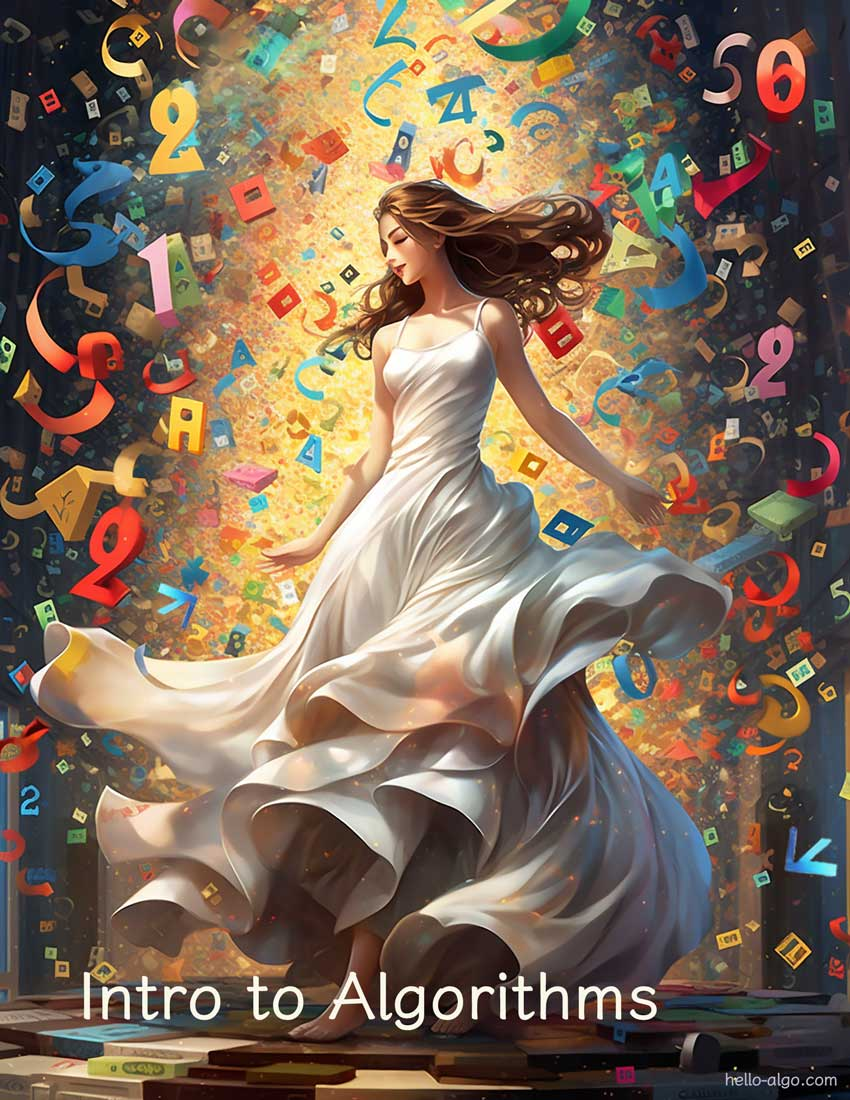
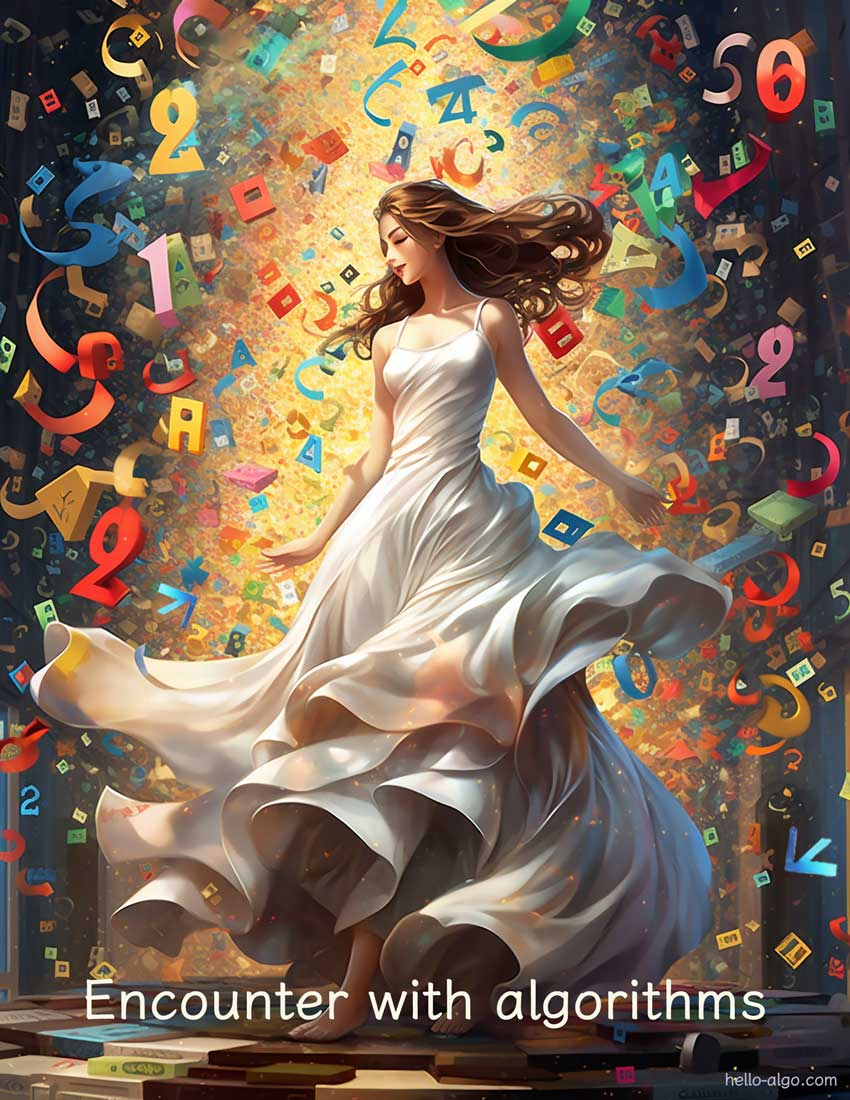
Add the chapter of hello algo for the en version (#1269)

Changed region(s): [[0.0918, 0.8655, 0.9176, 0.9582]]

diff --git a/en/docs/chapter_hello_algo/index.md b/en/docs/chapter_hello_algo/index.md
@@ -1,0 +1,30 @@
+---
+comments: true
+icon: material/rocket-launch-outline
+---
+
+# Before starting
+
+A few years ago, I shared the "Sword for Offer" problem solutions on LeetCode, receiving encouragement and support from many readers. During interactions with readers, the most common question I encountered was "how to get started with algorithms." Gradually, I developed a keen interest in this question.
+
+Directly solving problems seems to be the most popular method — it's simple, direct, and effective. However, problem-solving is like playing a game of Minesweeper: those with strong self-study abilities can defuse the mines one by one, but those with insufficient basics might end up metaphorically bruised from explosions, retreating step by step in frustration. Going through textbooks is also common, but for those aiming for job applications, the energy spent on thesis writing, resume submissions, and preparation for written tests and interviews leaves little for tackling thick books, turning it into a daunting challenge.
+
+If you're facing similar troubles, then this book are lucky to have found you. This book is my answer to the question. While it may not be the best solution, it is at least a positive attempt. This book may not directly land you an offer, but it will guide you through the "knowledge map" in data structures and algorithms, help you understand the shapes, sizes, and locations of different "mines," and enable you to master various "demining methods." With these skills, I believe you can solve problems and read literature more comfortably, gradually building a knowledge system.
+
+I deeply agree with Professor Feynman's statement: "Knowledge isn't free. You have to pay attention." In this sense, this book is not entirely "free." To not disappoint the precious "attention" you pay for this book, I will do my best, dedicating my utmost "attention" to this book.
+
+Knowing my limitations, although the content of this book has been refined over time, there are surely many errors remaining. I sincerely request critiques and corrections from all teachers and students.
+
+![Hello Algorithms](../assets/covers/chapter_hello_algo.jpg){ class="cover-image" }
+
+<div style="text-align: center;">
+    <h2 style="margin-top: 0.8em; margin-bottom: 0.8em;">Hello, Algo!</h2>
+</div>
+
+The advent of computers has brought significant changes to the world. With their high-speed computing power and excellent programmability, they have become the ideal medium for executing algorithms and processing data. Whether it's the realistic graphics of video games, the intelligent decisions in autonomous driving, the brilliant Go games of AlphaGo, or the natural interactions of ChatGPT, these applications are all exquisite demonstrations of algorithms at work on computers.
+
+In fact, before the advent of computers, algorithms and data structures already existed in every corner of the world. Early algorithms were relatively simple, such as ancient counting methods and tool-making procedures. As civilization progressed, algorithms became more refined and complex. From the exquisite craftsmanship of artisans, to industrial products that liberate productive forces, to the scientific laws governing the universe, almost every ordinary or astonishing thing has behind it the ingenious thought of algorithms.
+
+Similarly, data structures are everywhere: from social networks to subway lines, many systems can be modeled as "graphs"; from a country to a family, the main forms of social organization exhibit characteristics of "trees"; winter clothes are like a "stack", where the first item worn is the last to be taken off; a badminton shuttle tube resembles a "queue", with one end for insertion and the other for retrieval; a dictionary is like a "hash table", enabling quick search for target entries.
+
+This book aims to help readers understand the core concepts of algorithms and data structures through clear, easy-to-understand animated illustrations and runnable code examples, and to be able to implement them through programming. On this basis, this book strives to reveal the vivid manifestations of algorithms in the complex world, showcasing the beauty of algorithms. I hope this book can help you!

diff --git a/en/docs/chapter_introduction/index.md b/en/docs/chapter_introduction/index.md
@@ -1,6 +1,6 @@
-# Introduction to algorithms
+# Encounter with algorithms
 
-![Introduction to algorithms](../assets/covers/chapter_introduction.jpg)
+![Encounter with algorithms](../assets/covers/chapter_introduction.jpg)
 
 !!! abstract
 
